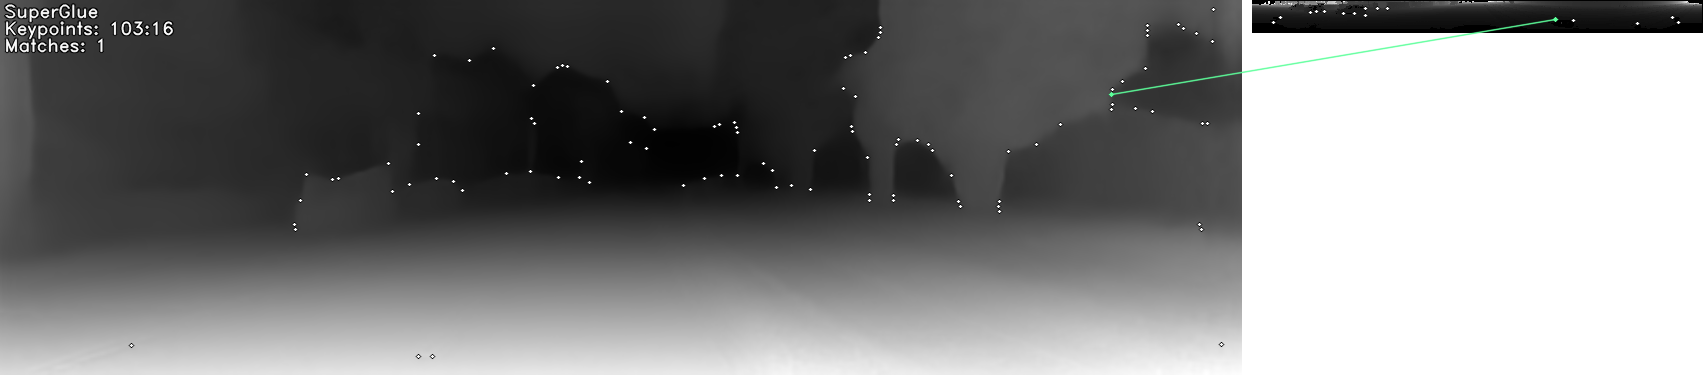
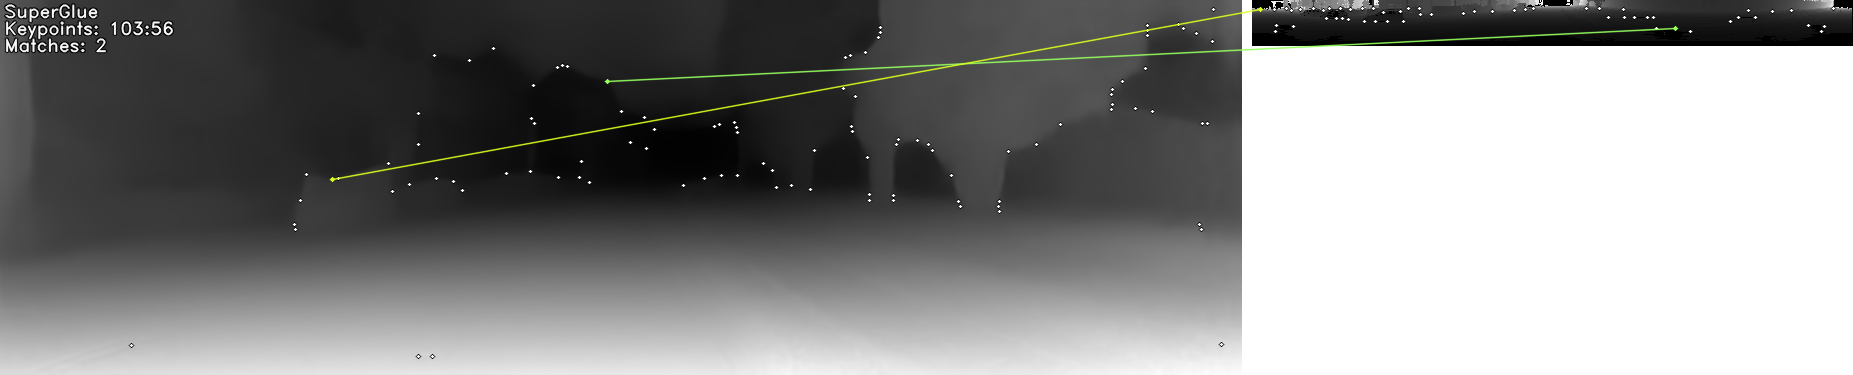
new setup

diff --git a/main.py b/main.py
@@ -47,9 +47,9 @@ if __name__ == "__main__":
 
     ## Convert the LiDAR point clouds to range images ##
     # Set visibility parameters 
-    v_fov, h_fov = (-25, 0), (-180,180)
-    v_res=0.8 #0.42
-    h_res=0.8 #0.35
+    v_fov, h_fov = (-24.9, 2), (-180,180)
+    v_res=0.6#0.42
+    h_res=0.6#0.35
 
     range0 = velo_points_2_pano(velo0, v_res, h_res, v_fov, h_fov, depth=False).astype(float)
     range1 = velo_points_2_pano(velo1, v_res, h_res, v_fov, h_fov, depth=False).astype(float)
